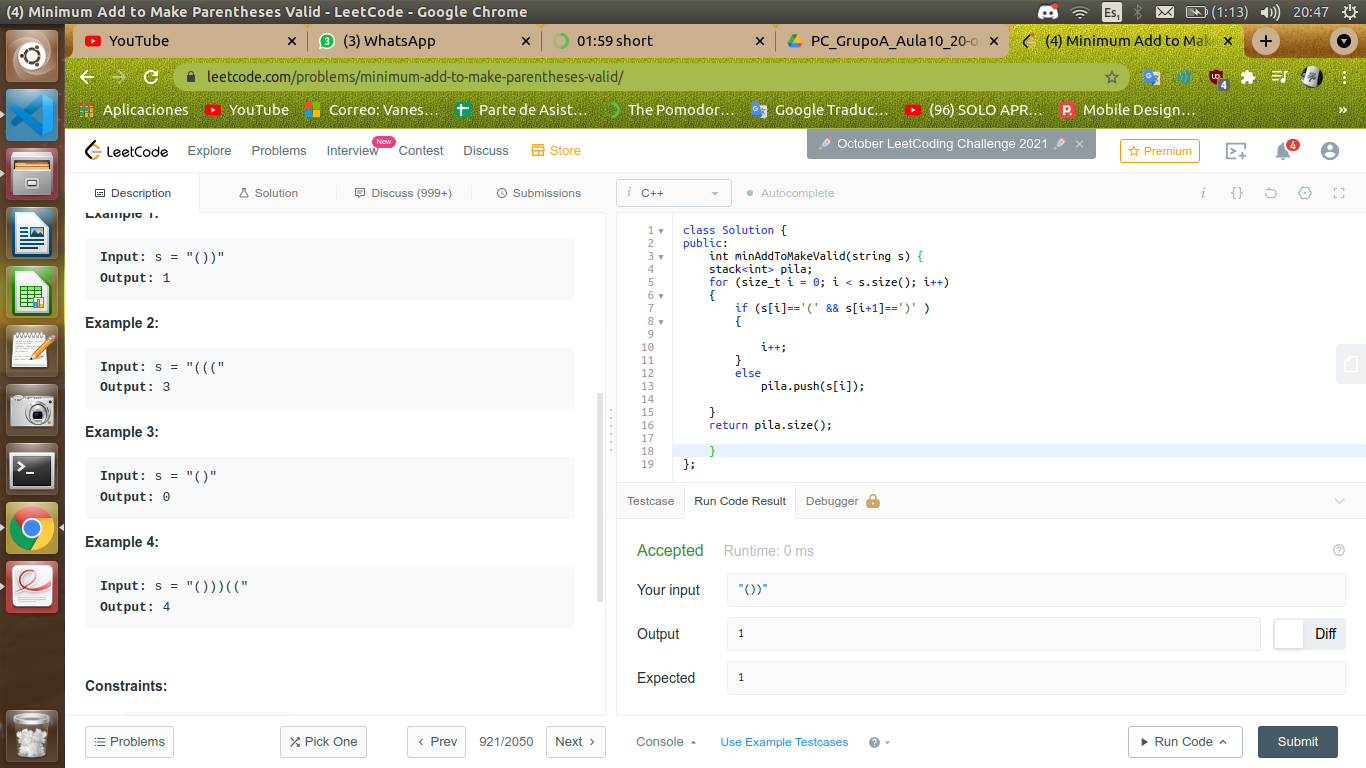
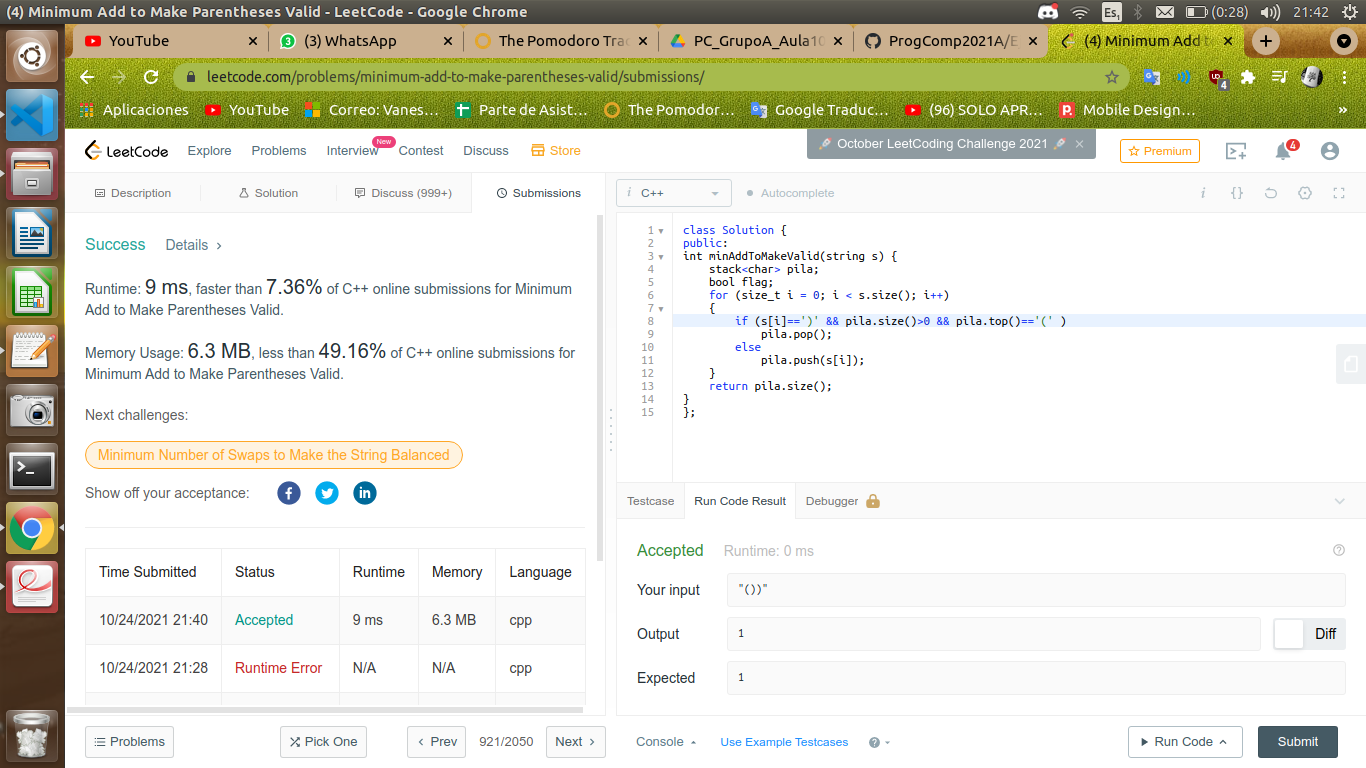
921. Minimum Add to Make Parentheses Valid

diff --git a/Aula10/Ejercicio2_minAddToMakeValid.cpp b/Aula10/Ejercicio2_minAddToMakeValid.cpp
@@ -7,21 +7,22 @@ link: https://leetcode.com/problems/minimum-add-to-make-parentheses-valid/
 */
 
 int minAddToMakeValid(string s) {
-    stack<int> pila;
+    stack<char> pila;
+    bool flag;
     for (size_t i = 0; i < s.size(); i++)
     {
-        if (s[i]=='(' && s[i+1]==')' )
-            i++;
+        if (s[i]==')' && pila.size()>0 && pila.top()=='(')
+            pila.pop();
         else
-            pila.push(s[i]);       
-    }
+            pila.push(s[i]);                  
+    }   
     return pila.size();   
 }
 
 int main(int argc, char const *argv[])
 {
     // string s ="())";
-    string s ="()))((";
+    string s ="((())";
     cout << minAddToMakeValid( s);
     return 0;
 }
